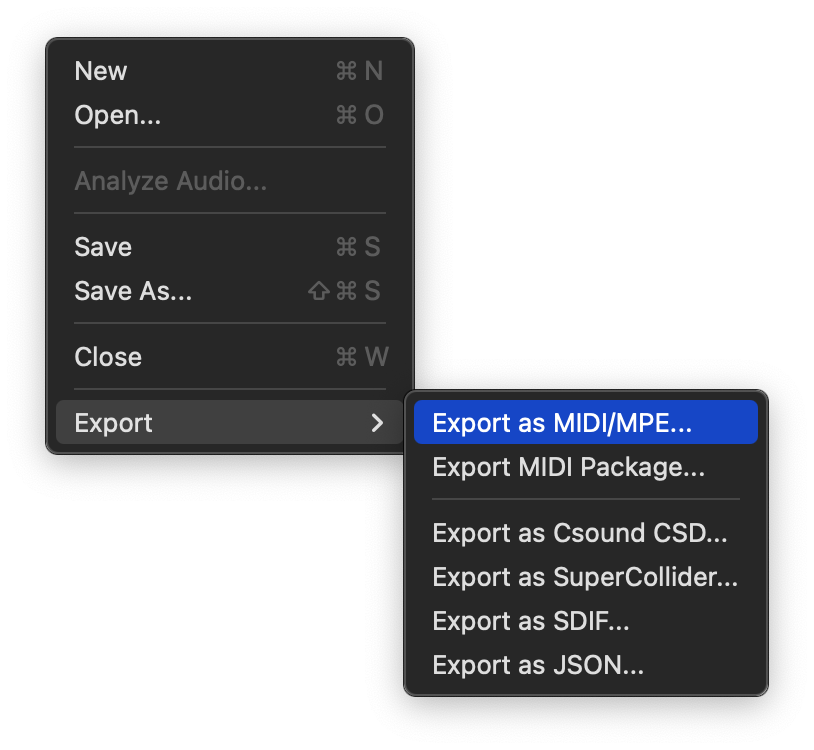
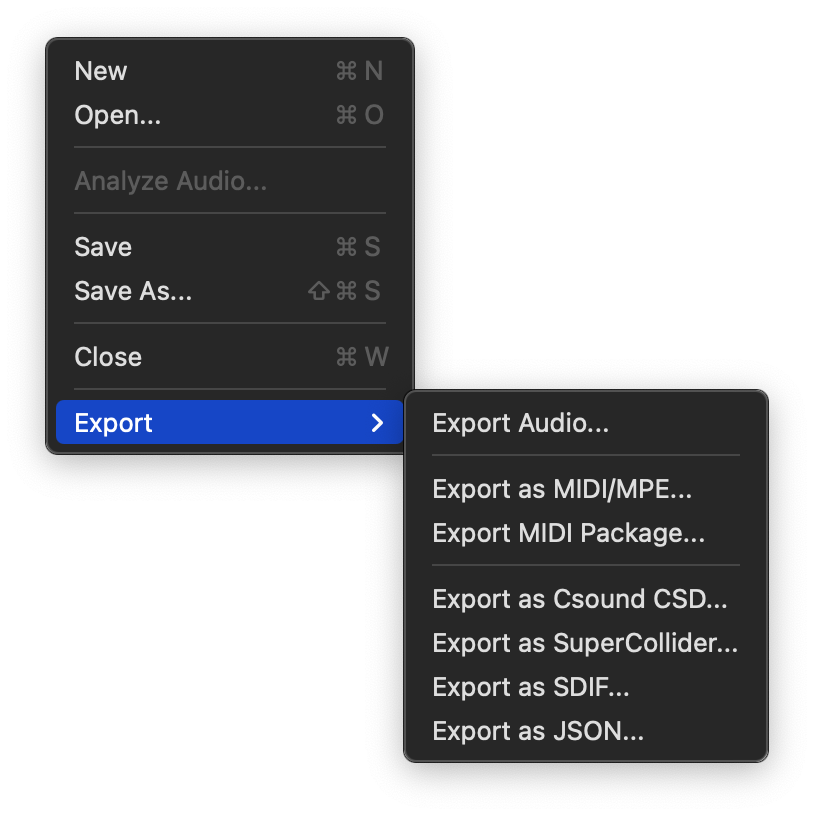
docs: update manual for Export Audio feature
- Retake S-06_sub_menu.png to show Export Audio at top of submenu
- Add §11.7 Export Audio with four dialog screenshots (AIFF, FLAC, Ogg, AAC/ALAC tabs)
- Update §11 intro to distinguish audio export from symbolic data formats and clarify solo behaviour
- Remove stray section divider between §11.6 and §11.7

Changed region(s): [[0.0307, 0.0307, 0.9521, 0.9507], [0.3686, 0.276, 0.4914, 0.3987]]

diff --git a/docs/MANUAL.md b/docs/MANUAL.md
@@ -524,7 +524,9 @@ The Inspector updates immediately as the selection changes.
 
 ## 11. Export
 
-All export formats operate on the **unmuted** partials only. Muted or filtered partials are excluded.
+All export formats operate on the **unmuted** partials only — muted and filtered partials are excluded. If any partial is soloed, only soloed partials are included.
+
+**Export Audio** renders the resynthesis directly to a playable audio file. The other formats export partial data for use in external tools such as Csound, a DAW, or SPEAR.
 
 Access all export options via **File → Export**.
 
@@ -589,15 +591,15 @@ Exports partials as a JSON file, useful for data interchange with custom tools o
 
 Each partial is represented as an object with metadata (id, start time, duration, color) and an array of breakpoints (time, frequency, amplitude, bandwidth, phase).
 
----
-
 ### 11.7 Export Audio
 
-Renders the current resynthesis to an audio file — **you hear exactly what you export**. Muted partials are silent in the output; if any partials are soloed, only soloed partials are rendered.
+Renders the current resynthesis to an audio file — **you hear exactly what you export**. Muted partials are excluded; if any partial is soloed, only soloed partials are rendered.
 
 Invoke via **File → Export → Export Audio…**
 
 A dialog opens with a horizontal tab strip for choosing the output format. The default tab is **AIFF**.
+
+![S-49 — Export Audio dialog, AIFF tab (default)](screenshots/manual/S-49_export_audio_aiff.png)
 
 #### Format tabs
 
@@ -609,6 +611,12 @@ A dialog opens with a horizontal tab strip for choosing the output format. The d
 | Ogg | Ogg Vorbis (lossy) | Quality slider 0.0 (lowest) – 1.0 (highest); default 0.5 |
 | AAC/ALAC | Apple lossy / lossless | **macOS only.** Toggle between AAC (128 – 320 kbps) and ALAC (16 / 24-bit lossless) |
 
+![S-50 — FLAC tab showing bit depth and compression options](screenshots/manual/S-50_export_audio_flac.png)
+
+![S-52 — Ogg tab showing quality slider](screenshots/manual/S-52_export_audio_ogg.png)
+
+![S-51 — AAC/ALAC tab (macOS only) showing codec toggle and bitrate options](screenshots/manual/S-51_export_audio_aac_alac.png)
+
 > **Note:** The AAC/ALAC tab appears only on macOS. On other platforms, FLAC (24-bit, compression 5) is the recommended lossless format.
 
 #### Sample rate
@@ -619,7 +627,7 @@ A **Sample Rate** selector below the option panels offers:
 
 #### Exporting
 
-Click **Export…** to open a file save dialog. The file extension filter matches the selected format automatically. The render runs immediately after you confirm the file path; progress completes silently for typical analysis lengths (under 30 s). On completion the file is ready to use in your DAW, notation software, or csound workflow.
+Click **Export...** to open a file save dialog. The file extension filter matches the selected format automatically. The render runs immediately after you confirm the file path; progress completes silently for typical analysis lengths (under 30 s). On completion the file is ready to use in your DAW, notation software, or Csound workflow.
 
 Click **Cancel** to dismiss the dialog without creating a file.
 